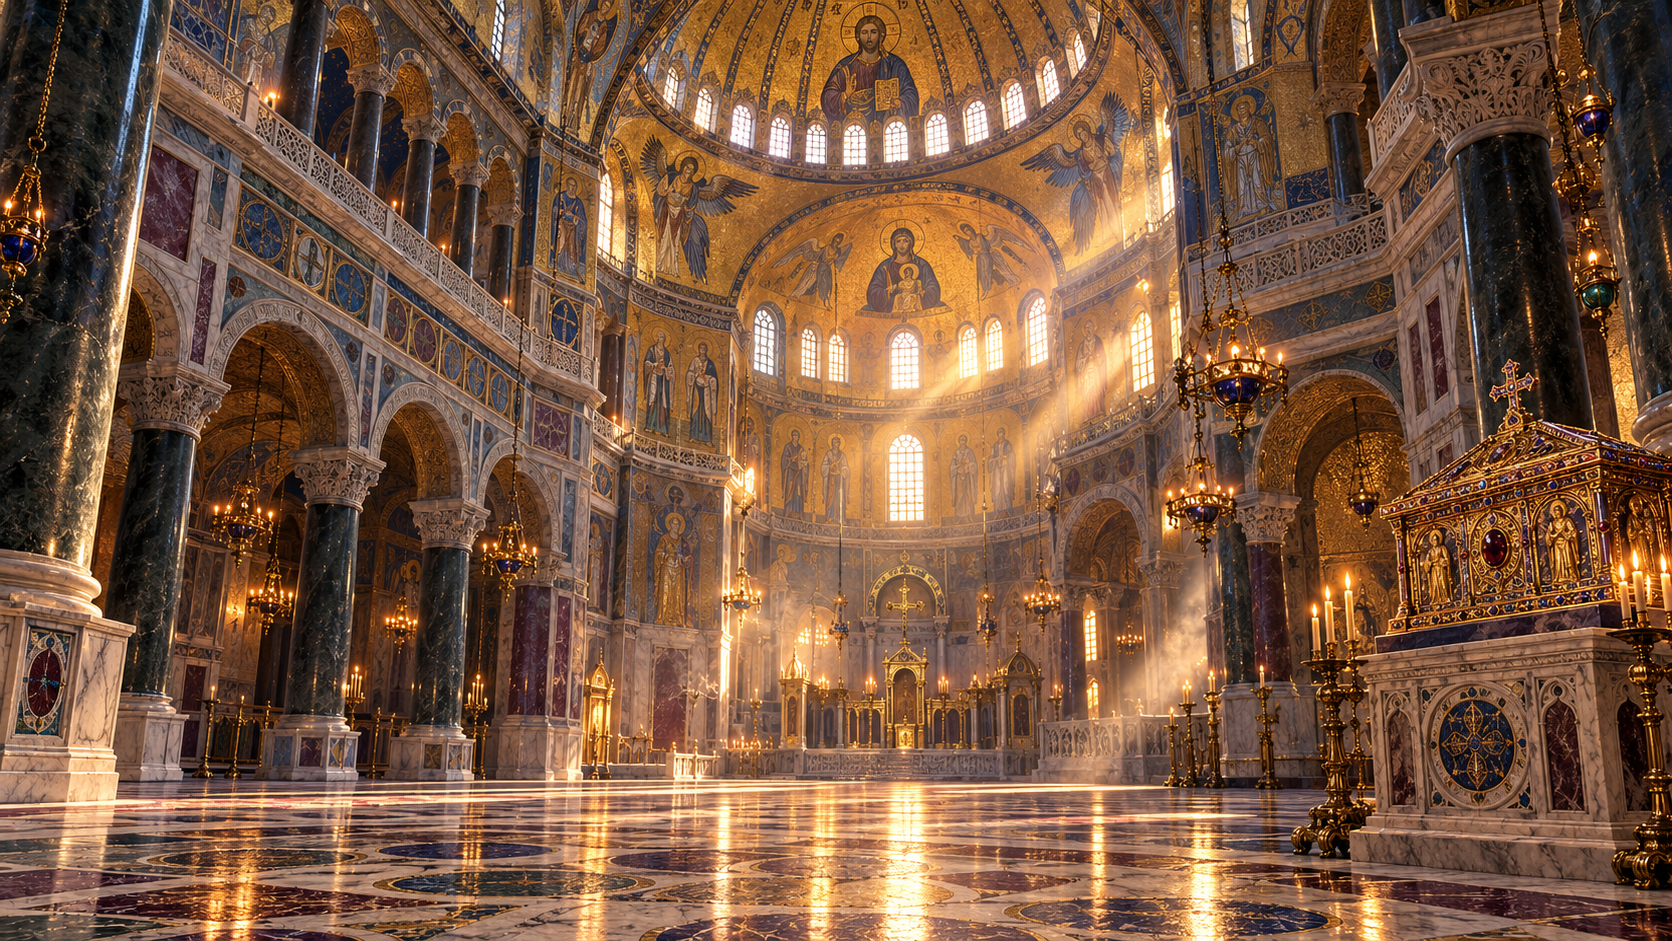
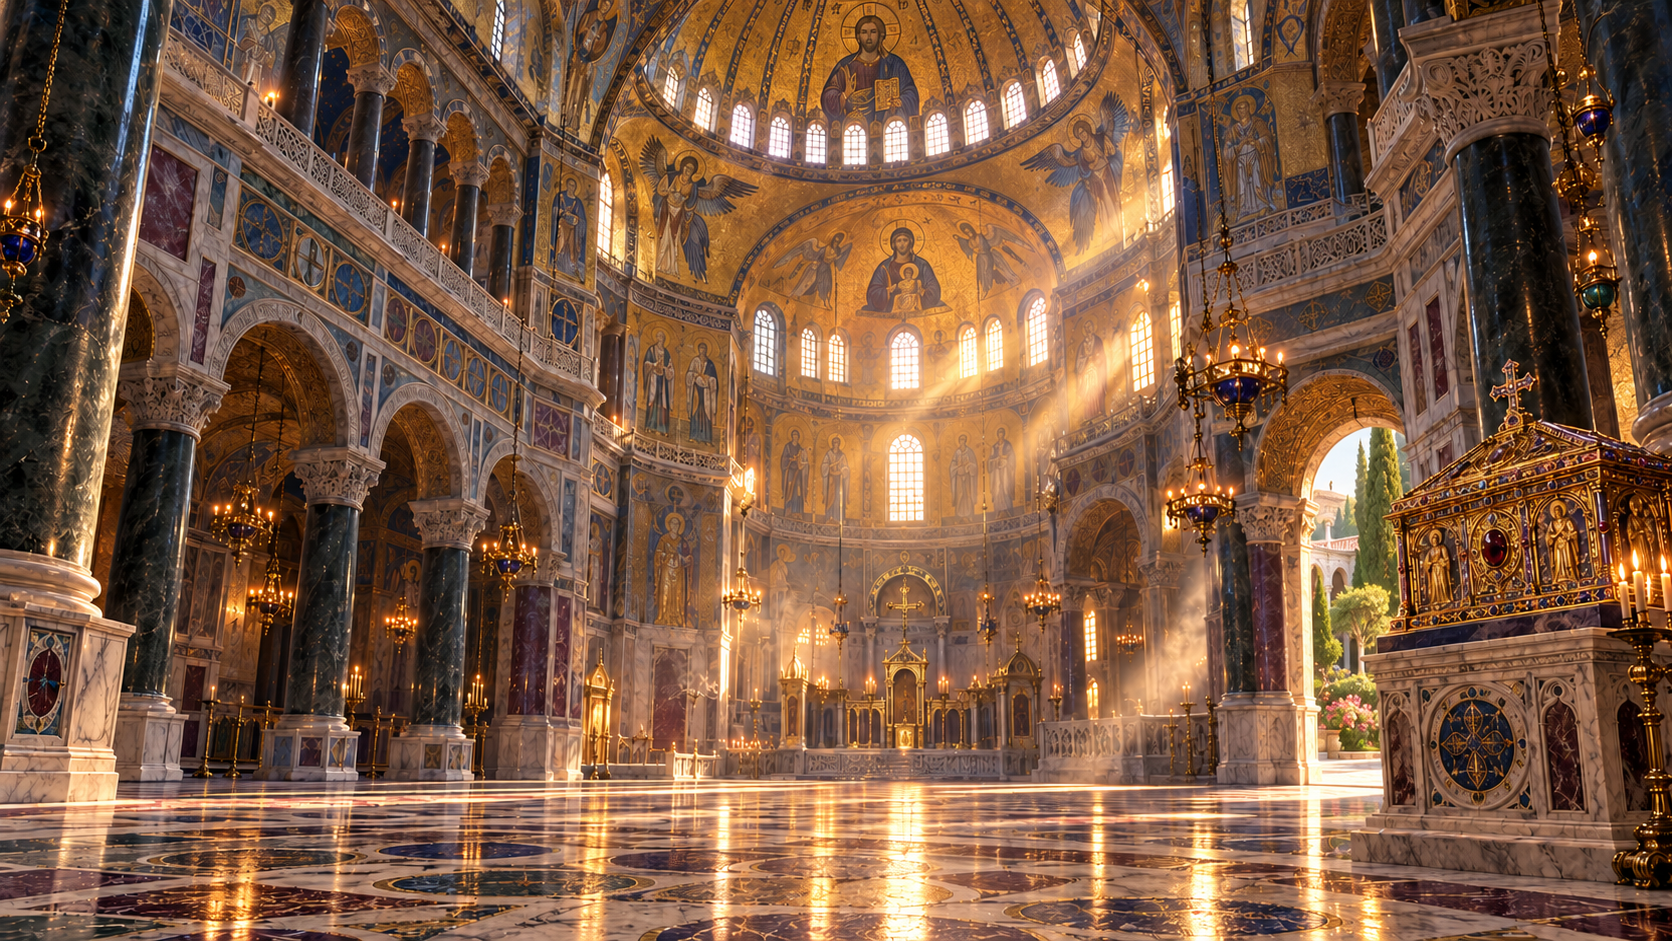
Replace Hagia movement buttons with gilded passage portals

diff --git a/Assets/Scripts/HagiaPortalCapture.cs b/Assets/Scripts/HagiaPortalCapture.cs
@@ -1,0 +1,232 @@
+#if UNITY_EDITOR || DEVELOPMENT_BUILD
+using System;
+using System.Collections;
+using System.Collections.Generic;
+using System.IO;
+using System.Linq;
+using UnityEngine;
+using UnityEngine.EventSystems;
+
+// Development-player verification only; ordinary launches do not create this component.
+public class HagiaPortalCapture : MonoBehaviour
+{
+    const string PalaceLabel = "Return to the Palace";
+    const string GardenLabel = "Walk in the garden";
+    static readonly Vector2 PalaceCentre = new Vector2(.145f, .40f);
+    static readonly Vector2 GardenCentre = new Vector2(.81f, .35f);
+    static readonly Vector2 PalaceCorner = new Vector2(.109f, .62f);
+    static readonly Vector2 GardenCorner = new Vector2(.783f, .54f);
+    string output;
+    int passed;
+
+    [RuntimeInitializeOnLoadMethod(RuntimeInitializeLoadType.BeforeSceneLoad)]
+    static void Begin()
+    {
+        if (!Environment.GetCommandLineArgs().Contains("-hagia-portal-capture")) return;
+        string root = Path.GetFullPath(Path.Combine(Application.dataPath, "../Captures/HagiaPortals"));
+        Directory.CreateDirectory(root);
+        // Set these before the menu can import a legacy campaign or write a checkpoint.
+        SaveGames.TestRoot = Path.Combine(root, "Saves");
+        VariableSingleton.TestSavePath = Path.Combine(SaveGames.TestRoot, "checkpoint.besieged.json");
+        var go = new GameObject("Hagia portal verification");
+        DontDestroyOnLoad(go);
+        go.AddComponent<HagiaPortalCapture>().output = root;
+    }
+
+    void Check(bool ok, string label)
+    {
+        if (!ok) throw new InvalidOperationException("HAGIA PORTALS: " + label);
+        passed++;
+    }
+
+    LocationHotspot Find(string label)
+    {
+        var found = FindObjectsOfType<LocationHotspot>().FirstOrDefault(x => x.name == "Hotspot · " + label);
+        Check(found != null, "Missing portal: " + label);
+        return found;
+    }
+
+    PointerEventData Pointer(LocationHotspot portal, Vector2 point,
+        PointerEventData.InputButton button = PointerEventData.InputButton.Left)
+    {
+        Rect r = portal.rectTransform.rect;
+        Vector3 world = portal.rectTransform.TransformPoint(new Vector3(r.xMin + point.x * r.width, r.yMin + point.y * r.height));
+        return new PointerEventData(EventSystem.current) {
+            position = RectTransformUtility.WorldToScreenPoint(null, world), button = button
+        };
+    }
+
+    void CheckRaycast(LocationHotspot portal, Vector2 centre, Vector2 outside)
+    {
+        Check(portal.Contains(centre), portal.name + " excludes its passage centre");
+        Check(!portal.Contains(outside), portal.name + " includes the exterior arch corner");
+        var point = Pointer(portal, centre);
+        Check(portal.IsRaycastLocationValid(point.position, null), portal.name + " rejects its screen-space centre");
+        var hits = new List<RaycastResult>();
+        EventSystem.current.RaycastAll(point, hits);
+        Check(hits.Count > 0 && hits[0].gameObject == portal.gameObject, portal.name + " is blocked by another UI element");
+        point = Pointer(portal, outside);
+        Check(!portal.IsRaycastLocationValid(point.position, null), portal.name + " accepts an exterior screen-space point");
+        hits.Clear();
+        EventSystem.current.RaycastAll(point, hits);
+        Check(!hits.Any(x => x.gameObject == portal.gameObject), portal.name + " receives exterior raycasts");
+    }
+
+    // Catch failures in nested capture coroutines too, so automation exits instead of hanging.
+    IEnumerator Start()
+    {
+        File.WriteAllText(Path.Combine(output, "checks.txt"), "RUNNING: Hagia portal verification");
+        var work = new Stack<IEnumerator>();
+        work.Push(Run());
+        while (work.Count > 0) {
+            object next = null;
+            bool moved = false;
+            Exception failure = null;
+            try { moved = work.Peek().MoveNext(); if (moved) next = work.Peek().Current; }
+            catch (Exception ex) { failure = ex; }
+            if (failure != null) {
+                File.WriteAllText(Path.Combine(output, "checks.txt"), "FAILED after " + passed + " checks.\n" + failure);
+                Debug.LogError(failure);
+                Application.Quit(1);
+                yield break;
+            }
+            if (!moved) { work.Pop(); continue; }
+            if (next is IEnumerator nested) work.Push(nested);
+            else yield return next;
+        }
+        File.WriteAllText(Path.Combine(output, "checks.txt"), passed + " exported-player Hagia portal checks passed.");
+        Debug.Log("HAGIA_PORTAL_CHECKS " + passed + " passed");
+        Application.Quit(0);
+    }
+
+    IEnumerator Run()
+    {
+        AudioListener.volume = 0;
+        Application.runInBackground = true;
+        Screen.SetResolution(1600, 900, false);
+        yield return null;
+        // Bypass the interactive Normal/Ironman selector using the existing campaign API.
+        SaveMenu.StartCampaign(false);
+        float deadline = Time.realtimeSinceStartup + 15;
+        while ((!VariableSingleton.IsInitialized || FindObjectOfType<ManagerUI>() == null) && Time.realtimeSinceStartup < deadline)
+            yield return null;
+        Check(VariableSingleton.IsInitialized && FindObjectOfType<ManagerUI>() != null, "Campaign did not initialise");
+        yield return new WaitForSecondsRealtime(.5f);
+        var council = CouncilUI.For(FindObjectOfType<ManagerUI>());
+        VariableSingleton.ChangeFloat("fHealth", .5f - VariableSingleton.GetFloatVariable("fHealth"));
+        int turn = VariableSingleton.Turn;
+        DateTime date = VariableSingleton.GetDate();
+        int gold = CouncilActions.Int("iMoney");
+        int provisions = CouncilActions.Int("iProvisions");
+        council.HagiaSophia();
+        yield return null;
+        Canvas.ForceUpdateCanvases();
+        Check(Mathf.Abs(VariableSingleton.GetFloatVariable("fHealth") - .51f) < .0001f, "First Hagia visit must restore exactly one health point");
+        Check(PalaceLocations.VisitedSanctuary, "Sanctuary visit was not recorded");
+        yield return Capture("hagia-idle");
+
+        var palace = Find(PalaceLabel);
+        var garden = Find(GardenLabel);
+        CheckRaycast(palace, PalaceCentre, PalaceCorner);
+        CheckRaycast(garden, GardenCentre, GardenCorner);
+        palace.OnPointerEnter(Pointer(palace, PalaceCentre));
+        yield return Capture("hagia-left-hover");
+        palace.OnPointerExit(Pointer(palace, PalaceCentre));
+        garden.OnPointerEnter(Pointer(garden, GardenCentre));
+        yield return Capture("hagia-right-hover");
+        garden.OnPointerExit(Pointer(garden, GardenCentre));
+
+        palace.OnPointerClick(Pointer(palace, PalaceCentre, PointerEventData.InputButton.Right));
+        garden.OnPointerClick(Pointer(garden, GardenCentre, PointerEventData.InputButton.Right));
+        yield return null;
+        Check(Find(PalaceLabel) == palace && Find(GardenLabel) == garden, "Right-click navigated away from Hagia");
+        palace.OnPointerClick(Pointer(palace, PalaceCorner));
+        garden.OnPointerClick(Pointer(garden, GardenCorner));
+        yield return null;
+        Check(Find(PalaceLabel) == palace && Find(GardenLabel) == garden, "Click outside a passage navigated away from Hagia");
+
+        palace.OnPointerClick(Pointer(palace, PalaceCentre));
+        yield return null;
+        Check(FindObjectsOfType<LocationHotspot>().Any(x => x.name == "Hotspot · Imperial affairs"), "Palace portal did not open the Palace");
+        council.HagiaSophia();
+        yield return null;
+        Check(Mathf.Abs(VariableSingleton.GetFloatVariable("fHealth") - .51f) < .0001f, "Returning from the Palace healed a second time");
+        garden = Find(GardenLabel);
+        garden.OnPointerClick(Pointer(garden, GardenCentre));
+        yield return null;
+        Check(FindObjectsOfType<LocationHotspot>().Any(x => x.name == "Hotspot · Hagia Sophia") &&
+            !FindObjectsOfType<LocationHotspot>().Any(x => x.name == "Hotspot · Imperial affairs"), "Garden portal did not open the garden");
+        council.HagiaSophia();
+        yield return null;
+        Check(Mathf.Abs(VariableSingleton.GetFloatVariable("fHealth") - .51f) < .0001f, "Returning from the garden healed a second time");
+        Check(VariableSingleton.Turn == turn && VariableSingleton.GetDate() == date, "Visiting consumed campaign time");
+        Check(CouncilActions.Int("iMoney") == gold && CouncilActions.Int("iProvisions") == provisions, "Visiting spent resources");
+
+        Screen.SetResolution(1100, 760, false);
+        yield return new WaitForSecondsRealtime(.6f);
+        Canvas.ForceUpdateCanvases();
+        Check(Screen.width == 1100 && Screen.height == 760, "Player did not resize to 1100 by 760");
+        palace = Find(PalaceLabel);
+        garden = Find(GardenLabel);
+        CheckRaycast(palace, PalaceCentre, PalaceCorner);
+        CheckRaycast(garden, GardenCentre, GardenCorner);
+        garden.OnPointerEnter(Pointer(garden, GardenCentre));
+        yield return Capture("hagia-resized");
+        garden.OnPointerExit(Pointer(garden, GardenCentre));
+    }
+
+    IEnumerator Capture(string name)
+    {
+        yield return new WaitForSecondsRealtime(.35f);
+        Canvas.ForceUpdateCanvases();
+        File.WriteAllLines(Path.Combine(output, name + "-text.txt"), FindObjectsOfType<TMPro.TMP_Text>()
+            .Select(t => t.name + " | " + t.rectTransform.rect + " | " + t.text));
+        // Explicitly render because a hidden Windows player can return a black back buffer.
+        var cameraObject = new GameObject("Capture camera", typeof(Camera));
+        var camera = cameraObject.GetComponent<Camera>();
+        camera.orthographic = true;
+        camera.clearFlags = CameraClearFlags.SolidColor;
+        camera.backgroundColor = new Color(.06f, .07f, .08f);
+        camera.nearClipPlane = .1f;
+        camera.farClipPlane = 100;
+        var canvases = FindObjectsOfType<Canvas>().Where(c => c.isRootCanvas).ToArray();
+        var modes = canvases.Select(c => c.renderMode).ToArray();
+        var cameras = canvases.Select(c => c.worldCamera).ToArray();
+        var distances = canvases.Select(c => c.planeDistance).ToArray();
+        // Use the live dimensions so the resized screenshot tests the actual aspect ratio.
+        int width = Screen.width, height = Screen.height;
+        var target = new RenderTexture(width, height, 24);
+        var shot = new Texture2D(width, height, TextureFormat.RGB24, false);
+        var previous = RenderTexture.active;
+        try {
+            camera.targetTexture = target;
+            foreach (var canvas in canvases) {
+                canvas.renderMode = RenderMode.ScreenSpaceCamera;
+                canvas.worldCamera = camera;
+                canvas.planeDistance = 10;
+            }
+            Canvas.ForceUpdateCanvases();
+            camera.Render();
+            RenderTexture.active = target;
+            shot.ReadPixels(new Rect(0, 0, width, height), 0, 0);
+            shot.Apply();
+            File.WriteAllBytes(Path.Combine(output, name + ".png"), shot.EncodeToPNG());
+        }
+        finally {
+            RenderTexture.active = previous;
+            for (int i = 0; i < canvases.Length; i++) {
+                canvases[i].renderMode = modes[i];
+                canvases[i].worldCamera = cameras[i];
+                canvases[i].planeDistance = distances[i];
+            }
+            camera.targetTexture = null;
+            target.Release();
+            Destroy(target);
+            Destroy(shot);
+            Destroy(cameraObject);
+            Canvas.ForceUpdateCanvases();
+        }
+        yield return null;
+    }
+}
+#endif

diff --git a/Assets/Scripts/CouncilLocationsUI.cs b/Assets/Scripts/CouncilLocationsUI.cs
@@ -28,8 +28,8 @@ public partial class CouncilUI
             LocationHotspot.Create(holder.transform,"Return to the Palace",new[]{new Vector2(.015f,.46f),new Vector2(.080f,.48f),new Vector2(.081f,.77f),new Vector2(.043f,.79f),new Vector2(.014f,.77f)},Palace);
             LocationHotspot.Create(holder.transform,"Hagia Sophia",new[]{new Vector2(.665f,.669f),new Vector2(.665f,.70f),new Vector2(.679f,.70f),new Vector2(.684f,.714f),new Vector2(.695f,.72f),new Vector2(.707f,.712f),new Vector2(.712f,.702f),new Vector2(.724f,.696f),new Vector2(.724f,.672f)},HagiaSophia);
         }else{
-            LocationButton(holder.transform,"Return to the Palace",.03f,.08f,.27f,.22f,Palace);
-            LocationButton(holder.transform,"Walk in the garden",.73f,.08f,.97f,.22f,Garden);
+            LocationHotspot.Create(holder.transform,"Return to the Palace",HagiaPalacePortal(),Palace);
+            LocationHotspot.Create(holder.transform,"Walk in the garden",HagiaGardenPortal(),Garden);
         }
         int visitor=PalaceLocations.Visitor(place);
         if(visitor>=0){
@@ -49,8 +49,18 @@ public partial class CouncilUI
         points.Add(new Vector2(.950f,.393f));return points.ToArray();
     }
     private Vector2[] PalaceCathedral()=>new[]{new Vector2(.366f,.687f),new Vector2(.367f,.724f),new Vector2(.372f,.726f),new Vector2(.375f,.710f),new Vector2(.389f,.717f),new Vector2(.390f,.732f),new Vector2(.399f,.743f),new Vector2(.409f,.747f),new Vector2(.420f,.742f),new Vector2(.427f,.728f),new Vector2(.428f,.718f),new Vector2(.436f,.718f),new Vector2(.436f,.733f),new Vector2(.440f,.735f),new Vector2(.443f,.720f),new Vector2(.447f,.705f),new Vector2(.447f,.677f),new Vector2(.424f,.676f),new Vector2(.416f,.672f),new Vector2(.391f,.674f),new Vector2(.390f,.688f),new Vector2(.378f,.693f)};
-    private void LocationButton(Transform parent,string title,float x,float y,float right,float top,UnityEngine.Events.UnityAction action)
-    {
-        CampaignHUD.MakeButton(parent,title,new Vector2(x,y),new Vector2(right,top),action);
-    }
+    // Trace only the visible passage, leaving the columns and foreground reliquary solid.
+    // Coordinates stay attached to the fitted painting at every window aspect ratio.
+    private Vector2[] HagiaPalacePortal()=>new[]{
+        new Vector2(.108f,.181f),new Vector2(.112f,.346f),new Vector2(.119f,.519f),
+        new Vector2(.124f,.568f),new Vector2(.130f,.604f),new Vector2(.138f,.625f),
+        new Vector2(.147f,.630f),new Vector2(.157f,.618f),new Vector2(.166f,.593f),
+        new Vector2(.174f,.557f),new Vector2(.178f,.516f),new Vector2(.174f,.441f),
+        new Vector2(.169f,.347f),new Vector2(.163f,.251f),new Vector2(.161f,.181f)};
+    private Vector2[] HagiaGardenPortal()=>new[]{
+        new Vector2(.783f,.161f),new Vector2(.782f,.468f),new Vector2(.787f,.495f),
+        new Vector2(.794f,.517f),new Vector2(.803f,.534f),new Vector2(.814f,.545f),
+        new Vector2(.826f,.548f),new Vector2(.839f,.542f),new Vector2(.840f,.505f),
+        new Vector2(.835f,.463f),new Vector2(.836f,.393f),new Vector2(.832f,.348f),
+        new Vector2(.818f,.321f),new Vector2(.824f,.275f),new Vector2(.828f,.161f)};
 }

diff --git a/Assets/Scripts/UI/Editor/BuildHagiaPortalPreview.cs b/Assets/Scripts/UI/Editor/BuildHagiaPortalPreview.cs
@@ -1,0 +1,21 @@
+#if UNITY_EDITOR
+using System;
+using System.Linq;
+using UnityEditor;
+using UnityEditor.Build.Reporting;
+
+public static class BuildHagiaPortalPreview
+{
+    public static void Build()
+    {
+        var report = BuildPipeline.BuildPlayer(new BuildPlayerOptions {
+            scenes = EditorBuildSettings.scenes.Where(s => s.enabled).Select(s => s.path).ToArray(),
+            locationPathName = "Builds/HagiaPortalPreview/Besieged.exe",
+            target = BuildTarget.StandaloneWindows64,
+            options = BuildOptions.Development
+        });
+        if (report.summary.result != BuildResult.Succeeded)
+            throw new Exception("Hagia portal preview build failed: " + report.summary.result);
+    }
+}
+#endif

diff --git a/Documentation/Hagia portals - integration and QA.md b/Documentation/Hagia portals - integration and QA.md
@@ -1,0 +1,35 @@
+# Hagia Sophia portals — 30 October 2026
+
+## Implemented
+
+Replaced the two movement buttons inside the Hagia Sophia painting with the existing palace/garden `LocationHotspot` interaction. The left passage returns to the Palace; the right arch opens the garden. Hover reveals a gold contour and destination caption. The hit area follows the visible passage rather than a rectangular button, with positions normalised to the fitted painting so resizing preserves alignment.
+
+The right arch now opens onto a sunlit garden. The standing candle obstruction and hanging lamp inside that doorway were removed using built-in image generation. Other candles, architecture and the foreground reliquary remain. The painting keeps the existing resource path and Unity asset GUID. Character placement and the once-per-turn sanctuary health reward were not changed.
+
+## Scope
+
+- `Assets/Scripts/CouncilLocationsUI.cs` — Hagia navigation and two portal contours.
+- `Assets/Resources/UI/MidnightMosaic/Locations/hagia-sophia.png` — replacement background; existing `.meta` retained.
+- `Assets/Scripts/HagiaPortalCapture.cs` and `.meta` — opt-in development-player verification with isolated saves.
+- `Assets/Scripts/UI/Editor/BuildHagiaPortalPreview.cs` and `.meta` — separate preview builder.
+- This note and `Documentation/Hagia portals - image prompt.txt` — handoff and art provenance.
+
+No changes to `LocationHotspot.cs`, published Version 36 binaries, character sprites, game rules or unrelated shared files.
+
+## Verification performed
+
+Unity 2022.3.15f1 exported a development player successfully against the Version 36 source baseline. Running it with `-hagia-portal-capture` completed **45 checks**. Both destinations opened correctly, actual UI raycasts reached the portals, exterior corners were rejected, right-click did not travel, and portal hit areas worked at 1600×900 and 1100×760.
+
+The sanctuary restored health from 50% to 51% on the first visit and did not heal again on return during the same turn. Navigation spent no gold, provisions or campaign time. The capture run used isolated test saves. All four captured screens (idle, left hover, right hover, resized) were visually inspected. The run logged no exceptions or errors.
+
+Preview: `Builds/HagiaPortalPreview/Besieged.exe`. Start normally, enter the Palace, then Hagia Sophia; hover and left-click either passage. The exported player retains the Version 36 header because this is a scoped preview, not a new numbered release.
+
+Reproduce the build with Unity batch mode and `-executeMethod BuildHagiaPortalPreview.Build`. Reproduce checks by launching the preview with `-hagia-portal-capture`; results appear under `Builds/HagiaPortalPreview/Captures/HagiaPortals/`.
+
+## Art provenance
+
[1 lines of base64/hex data omitted]
+
+## Release handoff
+
+The main developer confirmed the location source, background and Unity build slot were free after publishing Version 36. These changes were integrated into `C:/Users/Dainius/Documents/Codex/Besieged-release18` and tested in the separate preview. Include them in the next normal release; the already-published Version 36 executable does not contain this change.
